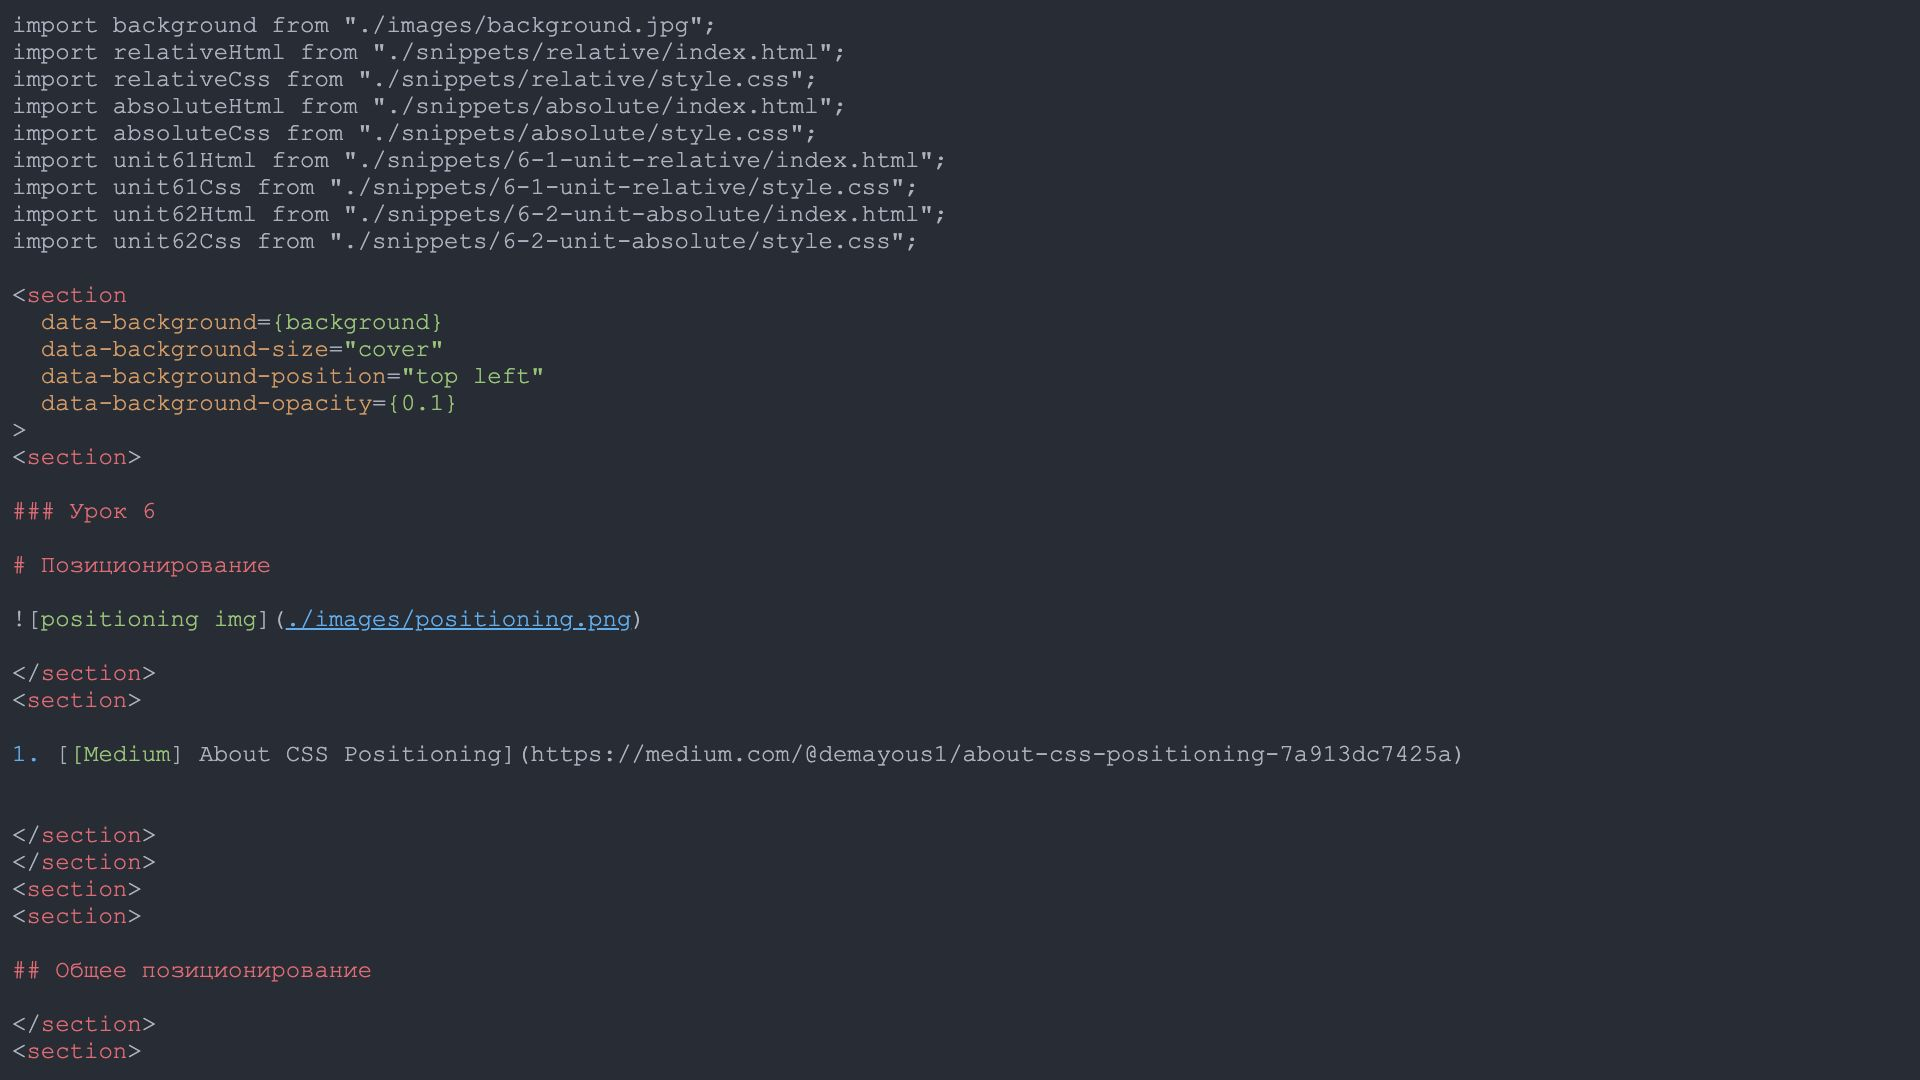
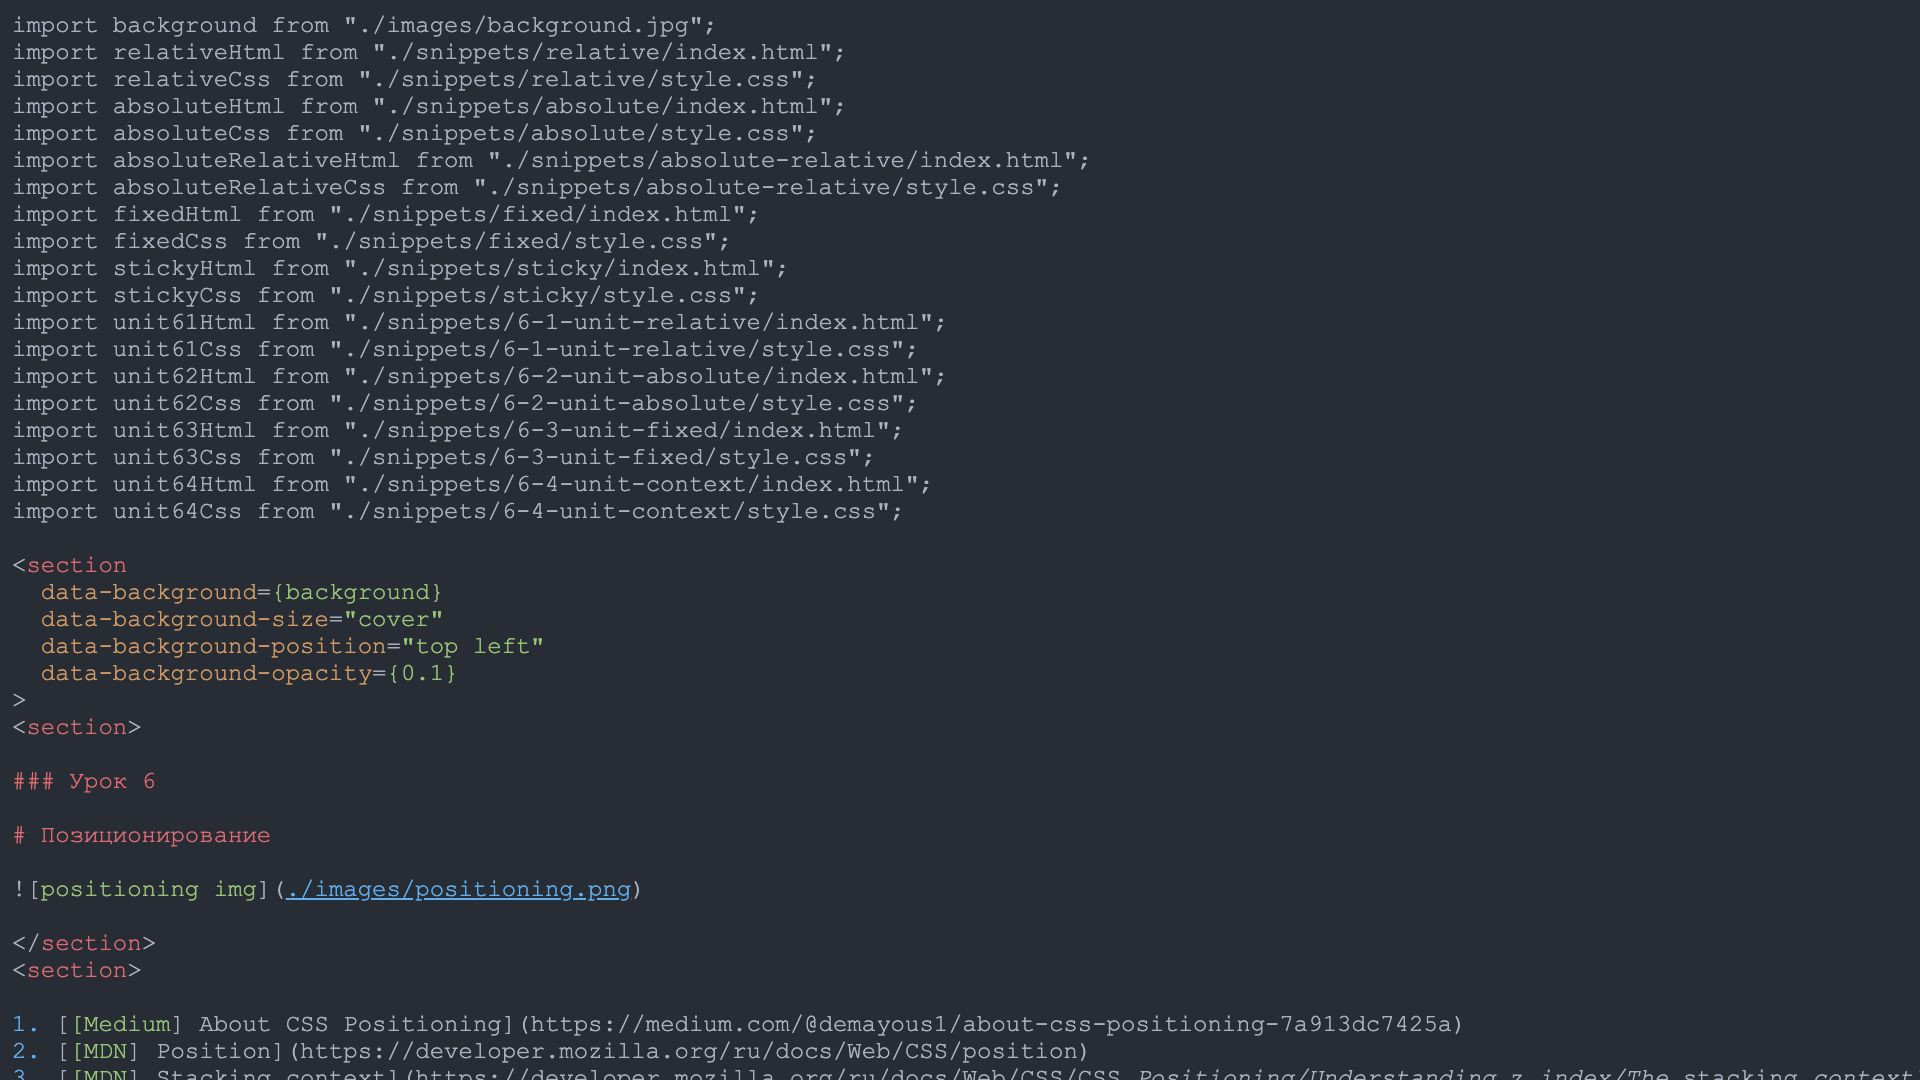
add z-index

diff --git a/src/pages/lessons/html/html-06/snippets/6-4-unit-context/style.css b/src/pages/lessons/html/html-06/snippets/6-4-unit-context/style.css
@@ -1,0 +1,85 @@
+.your .card {
+  bottom: 0;
+  position: absolute;
+}
+
+.your .ten {
+  left: 0;
+}
+
+.your .jack {
+  left: 20px;
+}
+
+.your .queen {
+  left: 40px;
+}
+
+.your .king {
+  left: 60px;
+}
+
+.your .ace {
+  left: 80px;
+}
+
+body {
+  background-color: green;
+  display: flex;
+  justify-content: center;
+  align-items: center;
+}
+
+.table {
+  width: 500px;
+  height: 200px;
+  border: 2px solid black;
+  position: relative;
+  background-size: 50px 50px;
+  background-image:
+    linear-gradient(to right, grey 1px, transparent 1px),
+    linear-gradient(to bottom, grey 1px, transparent 1px);
+}
+
+.card {
+  width: 73px;
+  height: 97px;
+  background-image: url("/images/units/6-4/cards.png");
+}
+
+.nine {
+  background-position: -584px -197px;
+}
+
+.ten {
+  background-position: -658px -197px;
+}
+
+.jack {
+  background-position: -732px -197px;
+}
+
+.queen {
+  background-position: -804px -197px;
+}
+
+.king {
+  background-position: -878px -197px;
+}
+
+.ace {
+  background-position: 0 -197px;
+}
+
+.opponnent {
+  display: flex;
+}
+
+.opponnent.deck {
+  z-index: 10;
+  position: relative;
+}
+
+.opponnent .card {
+  margin-right: 27px;
+}

diff --git a/src/pages/lessons/html/html-06/snippets/sticky/style.css b/src/pages/lessons/html/html-06/snippets/sticky/style.css
@@ -1,0 +1,34 @@
+.sticky {
+  position: sticky;
+  top: 50px;
+  left: 50px;
+}
+
+.box {
+  width: 150px;
+  height: 150px;
+  border: 5px dashed #000000;
+  text-align: center;
+}
+
+.box:nth-child(1) {
+  background-color: #d55353;
+}
+
+.box:nth-child(2) {
+  background-color: #5858ef;
+}
+
+.box:nth-child(3) {
+  background-color: #80e880;
+}
+
+.container {
+  /* для скролла */
+  height: 2000px;
+  border: 5px solid #E44D26;
+}
+
+body {
+  height: 3000px;
+}

diff --git a/src/pages/lessons/html/html-06/snippets/6-4-unit-context/index.html b/src/pages/lessons/html/html-06/snippets/6-4-unit-context/index.html
@@ -1,0 +1,16 @@
+<div class="table">
+  <div class="opponnent deck">
+    <div class="card king"></div>
+    <div class="card nine"></div>
+    <div class="card jack"></div>
+    <div class="card queen"></div>
+    <div class="card ten"></div>
+  </div>
+  <div class="your deck">
+    <div class="card ten"></div>
+    <div class="card jack"></div>
+    <div class="card queen"></div>
+    <div class="card king"></div>
+    <div class="card ace"></div>
+  </div>
+</div>

diff --git a/src/pages/lessons/html/html-06/snippets/sticky/index.html b/src/pages/lessons/html/html-06/snippets/sticky/index.html
@@ -1,0 +1,5 @@
+<div class="container">
+  <div class="box">static box</div>
+  <div class="box sticky">relative box</div>
+  <div class="box">static box</div>
+</div>
